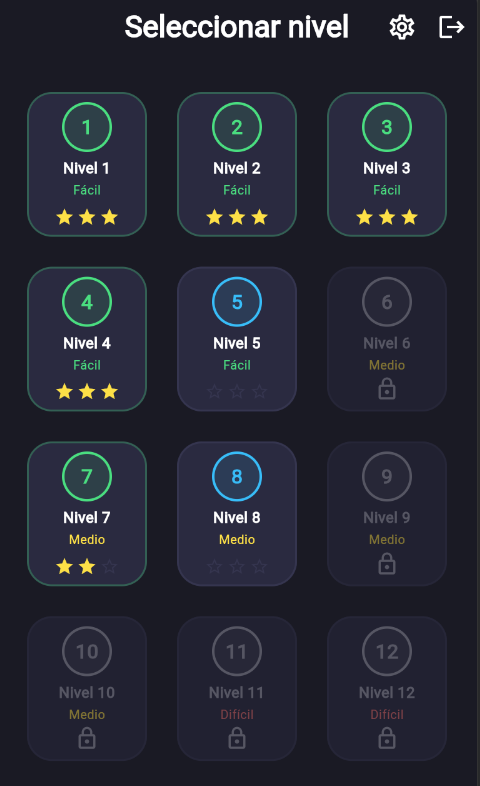
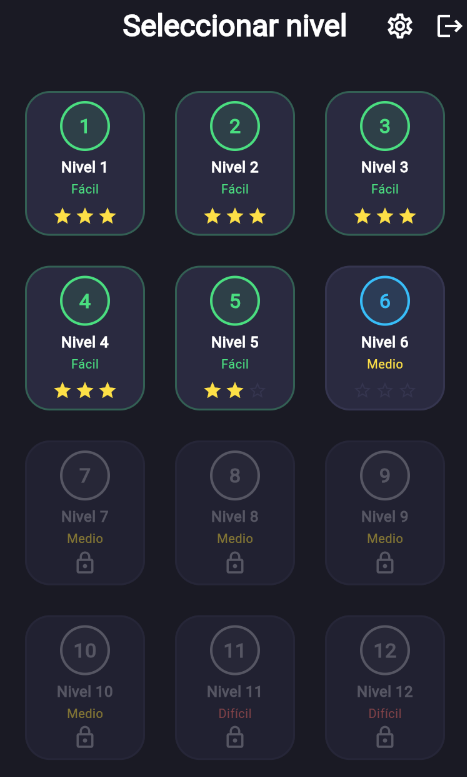
feat(docs): update README

diff --git a/README.md b/README.md
@@ -1,5 +1,11 @@
 # ArrowMaze Frontend
 
+[![Flutter](https://img.shields.io/badge/Flutter-3.12-blue?logo=flutter)]()
+[![Dart](https://img.shields.io/badge/Dart-3.12-blue?logo=dart)]()
+[![Tests](https://img.shields.io/badge/tests-226-brightgreen)]()
+[![License: MIT](https://img.shields.io/badge/License-MIT-yellow.svg)](LICENSE)
+[![build](https://img.shields.io/badge/build-passing-brightgreen)]()
+
 Flutter game inspired in the game **Arrow Maze — Escape Puzzle** (SayGames Ltd.).
 
 
@@ -11,9 +17,9 @@ to clear the board using as few moves as possible.
 University project in **Desarrollo de Software** course. **NRC 25783**.
 Teacher: Carlos Alonzo
 
-## Development Team — TEAM 01
+## Development TEAM 01
 
-| Member | ID Number |
+| Member | CI Number |
 |---|---|
 | Blanco, Antonio | 20.613.680 |
 | Márquez,Jac José | 29.710.631 |
@@ -46,22 +52,128 @@ container.
 
 ### 8 Implemented GoF Design Patterns
 
-| Pattern | Location | Role |
-|---|---|---|
-| **Factory Method** | `FabricaCeldasEstandar` (`domain/entities/`) | Creates cells and arrow paths from JSON definitions |
-| **State** | `EstadoSesion` + `SesionJuego` (`domain/sesion/`) | 4 sealed states: Playing, Paused, Victory, Defeat |
-| **Command** | `PlayerMoveCommand` + `CommandHistory` (`application/use_cases/`) | Encapsulates each tap; enables undo |
-| **Observer** | `PublicadorEventosJuego` + `ObservadorJuego` (`domain/`) | Decouples audio/UI rules from game logic |
-| **Strategy** | `EstrategiaPuntuacion` (`domain/puntuacion/`) + `GeneradorNivelBase` (`application/generadores/`) | Scoring (mixed/move-based) + level generation (random/file) |
-| **Singleton** | `AudioServiceImp.instance` (`infrastructure/audio/`) | Single audio service instance |
-| **Decorator** | `DecoradorCasoDeUso` + 3 decorators (`application/decoradores/`) | Security → Logging → Metrics stack around any use case |
-| **Template Method** | `GeneradorNivelBase` (`application/generadores/`) | Generation skeleton with mandatory `validarSolvencia()` step |
+| Pattern | Location | Code | Role |
+|---|---|---|---|
+| **Factory Method** | `domain/entities/` | [`FabricaCeldasEstandar`](lib/domain/entities/fabrica_celdas_estandar.dart) | Creates cells and arrow paths from JSON definitions |
+| **State** | `domain/sesion/` | [`EstadoSesion`](lib/domain/sesion/estado_sesion.dart) + [`SesionJuego`](lib/domain/sesion/sesion_juego.dart) | 4 sealed states: Playing, Paused, Victory, Defeat |
+| **Command** | `application/use_cases/` | [`PlayerMoveCommand` + `CommandHistory`](lib/application/use_cases/command_history.dart) | Encapsulates each tap; enables undo |
+| **Observer** | `domain/` | [`PublicadorEventosJuego`](lib/domain/publicador_eventos_juego.dart) + [`ObservadorJuego`](lib/domain/observador_juego.dart) | Decouples audio/UI rules from game logic |
+| **Strategy** | `domain/puntuacion/`, `application/generadores/` | [`EstrategiaPuntuacion`](lib/domain/puntuacion/estrategia_puntuacion.dart), [`GeneradorNivelBase`](lib/application/generadores/generador_nivel_base.dart) | Scoring (mixed/move-based) + level generation (random/file) |
+| **Singleton** | `infrastructure/audio/` | [`AudioServiceImp.instance`](lib/infrastructure/audio/audio_service_imp.dart) | Single audio service instance |
+| **Decorator** | `application/decoradores/` | [`DecoradorCasoDeUso`](lib/application/decoradores/decorador_caso_de_uso.dart) + 3 decorators | Security → Logging → Metrics stack around any use case |
+| **Template Method** | `application/generadores/` | [`GeneradorNivelBase`](lib/application/generadores/generador_nivel_base.dart) | Generation skeleton with mandatory `validarSolvencia()` step |
 
 ### Key Principles
 
 - **Separation of Concerns**: Views never call use cases directly — everything goes through the ViewModel.
 - **Dependency Inversion (DIP)**: `domain/` defines ports (interfaces); `infrastructure/` implements them. Higher layers depend on abstractions, not concretions.
 - **Single Composition Root**: the entire object graph is assembled in `Inyeccion`.
+
+---
+
+## SOLID Principles
+
+### Single Responsibility Principle (SRP)
+Each class has one clearly defined responsibility:
+- `FabricaCeldasEstandar` — only creates cells and arrow paths from JSON definitions
+- `SesionJuego` — only manages game session state transitions
+- `MoverFlechaUseCase` — only orchestrates a single move operation
+- `CommandHistory` — only tracks command history for undo
+
+```dart
+// FabricaCeldasEstandar — única responsabilidad: crear celdas
+class FabricaCeldasEstandar {
+  Celda crearCelda(TipoCelda tipo, Map<String, dynamic> json) { ... }
+}
+```
+
+### Open/Closed Principle (OCP)
+Entities are open for extension, closed for modification:
+- `EstrategiaPuntuacion` — add new scoring strategies without modifying existing code
+- `DecoradorCasoDeUso` — add cross-cutting behavior without altering use cases
+- `Tablero` interface — new board implementations don't change consumers
+
+```dart
+// OCP: nuevas estrategias sin modificar el interfaz ni sus clientes
+abstract class EstrategiaPuntuacion {
+  int calcularPuntuacion(int movimientos, int tiempo);
+}
+```
+
+### Liskov Substitution Principle (LSP)
+All sealed subtypes are fully substitutable for their parent type:
+- `CeldaFlecha`, `CeldaPared`, `CeldaVacia`, `Coleccionable` — interchangeable wherever `Celda` is expected
+- `EstadoJugando`, `EstadoPausado`, `EstadoVictoria`, `EstadoDerrota` — any state works in `SesionJuego`
+
+```dart
+// LSP: cualquier subtipo de Celda puede usarse donde se espere Celda
+sealed class Celda {
+  bool get bloqueaRayo;
+}
+final class CeldaFlecha extends Celda { ... }
+final class CeldaVacia extends Celda { ... }
+```
+
+### Interface Segregation Principle (ISP)
+Ports are minimal and focused — no client depends on methods it does not use:
+- `IConsultaRanking` — exposes only `obtenerTop()`
+- `Reloj` — only `iniciar()` / `detener()`
+- `ProveedorSesion` — only `obtenerToken()` / `guardarToken()` / `cerrarSesion()`
+
+```dart
+// ISP: interfaz pequeña con una única operación
+abstract class IConsultaRanking {
+  Future<List<FilaRanking>> obtenerTop(String nivelId, int limite);
+}
+```
+
+### Dependency Inversion Principle (DIP)
+High-level modules depend on abstractions, not concretions:
+- `domain/` defines ports (interfaces); `infrastructure/` implements them
+- `MoverFlechaUseCase` depends on `Tablero` interface, never on a concrete board
+- All arrows point inward — inner layers (domain, application) never import outer layers
+
+```dart
+// DIP: caso de uso depende de la abstracción Tablero, no de una implementación concreta
+class MoverFlechaUseCase {
+  final Tablero _tablero;
+  MoverFlechaUseCase(this._tablero);
+}
+```
+
+> **Verification:** [`test/architecture/dependency_direction_test.dart`](test/architecture/dependency_direction_test.dart) enforces these rules at the import level.
+
+## Aspect-Oriented Programming (AOP)
+
+Cross-cutting concerns are implemented through two complementary SOLID-based mechanisms:
+
+### Decorator Stack (OCP + DIP)
+`DecoradorCasoDeUso` wraps any use case with a chain of decorators, adding orthogonal behavior without modifying the use case itself:
+
+```
+DecoradorSeguridad → DecoradorRegistro → DecoradorMetricas → caso de uso real
+```
+
+Each decorator implements the same interface as the real use case and delegates to the next in the chain. The stack is assembled at the composition root in [`Inyeccion`](lib/di/inyeccion.dart).
+
+```dart
+// Cada decorador implementa la misma interfaz y añade un aspecto distinto
+class DecoradorSeguridad extends DecoradorCasoDeUso {
+  @override
+  Future<T> ejecutar<T>(Parametros params) async {
+    _proveedorSesion.obtenerToken(); // verifica autenticación
+    return siguiente.ejecutar(params);
+  }
+}
+```
+
+### Observer Pattern (AOP-style event propagation)
+`PublicadorEventosJuego` (subject) + `ObservadorJuego` (observer) decouple game rules from side effects:
+- Audio playback via `AudioServiceImp`
+- Haptic feedback via `HapticFeedbackFlutter`
+- UI state updates via the ViewModel
+
+When a game event fires, the subject notifies all registered observers. The core domain logic remains completely unaware of how — or whether — those events are handled, achieving AOP-style separation without a framework.
 
 ---
 
@@ -91,6 +203,31 @@ The game features seven main screens, each with a distinct role in the user flow
 
 ---
 
+## Getting Started
+
+### Prerequisites
+- **Flutter SDK** `^3.12.0` ([install guide](https://docs.flutter.dev/get-started/install))
+- **Dart SDK** `^3.12.0` (bundled with Flutter)
+- **Git**
+
+### Installation
+
+```sh
+# Clone the repository
+git clone https://github.com/your-org/arrowmaze-frontend.git
+cd arrowmaze-frontend
+
+# Install dependencies
+flutter pub get
+
+# Run the project
+flutter run
+```
+
+> To use a custom API backend, pass `--dart-define=API_BASE_URL=https://your-api.example.com`.
+
+---
+
 ## Quick Commands
 
 ```sh
@@ -98,11 +235,51 @@ flutter test                          # full suite (226 tests)
 flutter test test/presentation/juego_viewmodel_sync_test.dart  # single file
 flutter analyze                       # linter — 0 errors / 0 warnings expected
 flutter build web                     # production build
+docker-compose up --build             # build and run Docker container
 flutter pub outdated                  # check compatibility
 ```
 
 Always run `flutter analyze` after touching new code; the project tolerates
 0 errors and 0 warnings.
+
+---
+
+## AI Usage Documentation
+
+This project uses AI-assisted development tools. See [`AI_USAGE.md`](AI_USAGE.md) for the complete log of AI interactions, including tools used, tasks performed, and critical evaluation.
+
+---
+
+## Contributing
+
+### Commit Conventions
+This project follows [Conventional Commits](https://www.conventionalcommits.org/):
+
+```
+<type>(<scope>): <description>
+```
+
+Types: `feat`, `fix`, `test`, `refactor`, `docs`, `chore`, `style`.
+
+### Workflow
+1. Create a feature branch from `main`: `git checkout -b feat/your-feature`
+2. Make changes and commit following Conventional Commits
+3. Run `flutter analyze` — must pass with 0 errors and 0 warnings
+4. Run `flutter test` — all 226 tests must pass
+5. Push and open a Pull Request to `main`
+
+### Pull Request Process
+- PR title must follow Conventional Commits
+- Include a brief description of changes
+- Ensure CI checks pass (analyze + test)
+- At least one team member must review before merging
+
+---
+
+## License
+
+This project is licensed under the MIT License. See the [`LICENSE`](LICENSE) file for details.  
+Copyright (c) 2026 Mariana Fes.
 
 ---
 